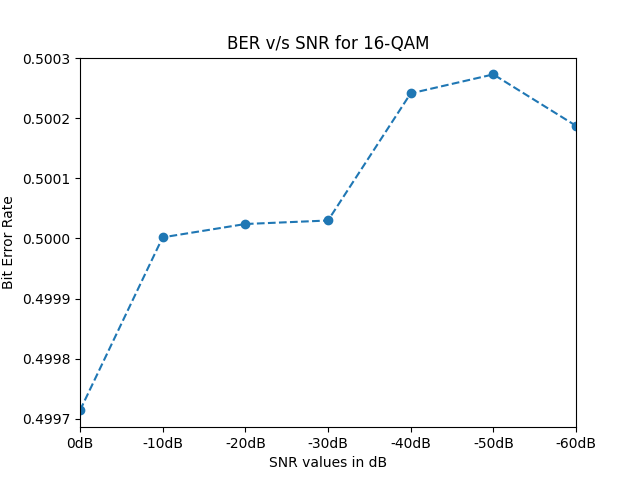
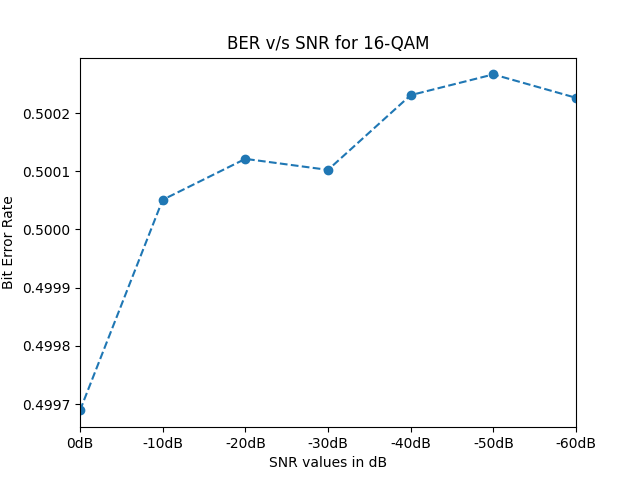
Fixed QAM signal power in Q1
On branch main
Your branch is up to date with 'origin/main'.

Changes to be committed:
	modified:   Q1/plots/16-QAM.png
	modified:   Q1/plots/4-QAM.png
	modified:   Q1/utils.py

diff --git a/Q1/utils.py b/Q1/utils.py
@@ -14,8 +14,16 @@ def get_QAM_points(M):
     for x in range(coords):
         for y in range(coords):
             points.append(complex(x - shift, y - shift))
+    
+    max_power = 0
+    for p in points:
+        if(max_power < np.abs(p)):
+            max_power = np.abs(p)
 
-    return points
+    scale_factor = 1/max_power
+    scaled_points = np.array([x * scale_factor for x in points])
+
+    return scaled_points
 
 def get_PSK_points(M):
     points = []
